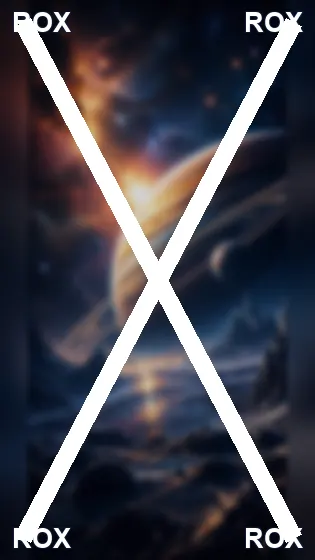
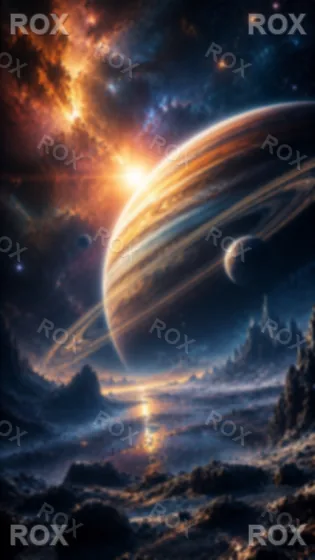
fix: refine ROX protected preview system

diff --git a/collections.html b/collections.html
@@ -81,12 +81,9 @@
     .preview-grid { display:grid; grid-template-columns:repeat(5,minmax(0,1fr)); gap:clamp(.65rem,1.5vw,1rem); list-style:none; padding:0; margin:0; }
     .preview { position:relative; aspect-ratio:4 / 5; overflow:hidden; border:1px solid rgba(49,101,177,.2); border-radius:18px; background:#dce8f8; box-shadow:0 10px 20px rgba(19,53,104,.1), inset 0 1px 0 #fff; transition:transform .3s var(--ease),box-shadow .3s; }
     .preview:hover { transform:translateY(-4px); box-shadow:0 17px 28px rgba(19,53,104,.16),inset 0 1px 0 #fff; }
-    .preview img { width:100%; height:100%; object-fit:cover; filter:blur(8px) saturate(.93); transform:scale(1.08); transition:none; }
-    .preview::after { content:""; position:absolute; inset:0; background:linear-gradient(145deg,rgba(255,255,255,.19),transparent 42%,rgba(4,27,68,.12)); pointer-events:none; }
-    .preview-x::before,.preview-x::after { content:""; position:absolute; z-index:2; top:50%; left:50%; width:62%; height:3px; border-radius:4px; background:rgba(255,255,255,.94); box-shadow:0 1px 6px rgba(4,24,64,.34); transform:translate(-50%,-50%) rotate(45deg); }
-    .preview-x::after { transform:translate(-50%,-50%) rotate(-45deg); }
-    .watermark { position:absolute; z-index:3; color:rgba(255,255,255,.97); font-size:clamp(.55rem,1vw,.7rem); line-height:1; font-weight:900; letter-spacing:.13em; text-shadow:0 1px 5px rgba(3,23,57,.48); }
-    .wm-tl{top:8px;left:8px}.wm-tr{top:8px;right:7px}.wm-bl{bottom:8px;left:8px}.wm-br{bottom:8px;right:7px}
+    .preview img { width:100%; height:100%; object-fit:cover; transform:scale(1.025); transition:transform .3s var(--ease); }
+    .preview:hover img { transform:scale(1.06); }
+    .preview::after { content:""; position:absolute; inset:0; background:linear-gradient(145deg,rgba(255,255,255,.08),transparent 42%,rgba(4,27,68,.07)); pointer-events:none; }
     .upcoming-grid { display:grid; grid-template-columns:repeat(5,minmax(0,1fr)); gap:1rem; }
     .future-card { min-height:286px; padding:1.15rem; border-radius:22px; display:flex; flex-direction:column; transition:transform .3s var(--ease),box-shadow .3s; }
     .future-card:hover { transform:translateY(-5px); box-shadow:var(--shadow-hover),inset 0 1px 0 #fff; }
@@ -209,13 +206,6 @@
       user-drag: none;
       pointer-events: none;
     }
-    .protected-preview-gallery .protect-x,
-    .protected-preview-gallery .preview-watermark,
-    .protected-preview-gallery .watermark,
-    .protected-preview-gallery .preview-x {
-      pointer-events: none;
-    }
-
   </style>
 </head>
 <body>
@@ -262,16 +252,16 @@
     <section class="section preview-section" aria-labelledby="preview-title">
       <div class="preview-intro reveal"><h2 id="preview-title">Protected previews.</h2><p>Every image is previewed with ROX protection. Your purchased collection includes the complete premium wallpapers.</p></div>
       <ul class="preview-grid protected-preview-gallery" aria-label="Protected Glass City wallpaper previews">
-        <li class="preview reveal"><img src="protected-previews/glass-city-preview-01.jpg" draggable="false" alt="Protected Glass City wallpaper preview one" loading="lazy" decoding="async"><span class="watermark wm-tl">ROX</span><span class="watermark wm-tr">ROX</span><span class="watermark wm-bl">ROX</span><span class="watermark wm-br">ROX</span><span class="preview-x" aria-hidden="true"></span></li>
-<li class="preview reveal"><img src="protected-previews/glass-city-preview-02.jpg" draggable="false" alt="Protected Glass City wallpaper preview two" loading="lazy" decoding="async"><span class="watermark wm-tl">ROX</span><span class="watermark wm-tr">ROX</span><span class="watermark wm-bl">ROX</span><span class="watermark wm-br">ROX</span><span class="preview-x" aria-hidden="true"></span></li>
-<li class="preview reveal"><img src="protected-previews/glass-city-preview-03.jpg" draggable="false" alt="Protected Glass City wallpaper preview three" loading="lazy" decoding="async"><span class="watermark wm-tl">ROX</span><span class="watermark wm-tr">ROX</span><span class="watermark wm-bl">ROX</span><span class="watermark wm-br">ROX</span><span class="preview-x" aria-hidden="true"></span></li>
-<li class="preview reveal"><img src="protected-previews/glass-city-preview-04.jpg" draggable="false" alt="Protected Glass City wallpaper preview four" loading="lazy" decoding="async"><span class="watermark wm-tl">ROX</span><span class="watermark wm-tr">ROX</span><span class="watermark wm-bl">ROX</span><span class="watermark wm-br">ROX</span><span class="preview-x" aria-hidden="true"></span></li>
-<li class="preview reveal"><img src="protected-previews/glass-city-preview-05.jpg" draggable="false" alt="Protected Glass City wallpaper preview five" loading="lazy" decoding="async"><span class="watermark wm-tl">ROX</span><span class="watermark wm-tr">ROX</span><span class="watermark wm-bl">ROX</span><span class="watermark wm-br">ROX</span><span class="preview-x" aria-hidden="true"></span></li>
-<li class="preview reveal"><img src="protected-previews/glass-city-preview-06.jpg" draggable="false" alt="Protected Glass City wallpaper preview six" loading="lazy" decoding="async"><span class="watermark wm-tl">ROX</span><span class="watermark wm-tr">ROX</span><span class="watermark wm-bl">ROX</span><span class="watermark wm-br">ROX</span><span class="preview-x" aria-hidden="true"></span></li>
-<li class="preview reveal"><img src="protected-previews/glass-city-preview-07.jpg" draggable="false" alt="Protected Glass City wallpaper preview seven" loading="lazy" decoding="async"><span class="watermark wm-tl">ROX</span><span class="watermark wm-tr">ROX</span><span class="watermark wm-bl">ROX</span><span class="watermark wm-br">ROX</span><span class="preview-x" aria-hidden="true"></span></li>
-<li class="preview reveal"><img src="protected-previews/glass-city-preview-08.jpg" draggable="false" alt="Protected Glass City wallpaper preview eight" loading="lazy" decoding="async"><span class="watermark wm-tl">ROX</span><span class="watermark wm-tr">ROX</span><span class="watermark wm-bl">ROX</span><span class="watermark wm-br">ROX</span><span class="preview-x" aria-hidden="true"></span></li>
-<li class="preview reveal"><img src="protected-previews/glass-city-preview-09.jpg" draggable="false" alt="Protected Glass City wallpaper preview nine" loading="lazy" decoding="async"><span class="watermark wm-tl">ROX</span><span class="watermark wm-tr">ROX</span><span class="watermark wm-bl">ROX</span><span class="watermark wm-br">ROX</span><span class="preview-x" aria-hidden="true"></span></li>
-<li class="preview reveal"><img src="protected-previews/glass-city-preview-10.jpg" draggable="false" alt="Protected Glass City wallpaper preview ten" loading="lazy" decoding="async"><span class="watermark wm-tl">ROX</span><span class="watermark wm-tr">ROX</span><span class="watermark wm-bl">ROX</span><span class="watermark wm-br">ROX</span><span class="preview-x" aria-hidden="true"></span></li>
+        <li class="preview reveal"><img src="protected-previews/glass-city-preview-01.webp" draggable="false" alt="Protected Glass City wallpaper preview one" loading="lazy" decoding="async"></li>
+<li class="preview reveal"><img src="protected-previews/glass-city-preview-02.webp" draggable="false" alt="Protected Glass City wallpaper preview two" loading="lazy" decoding="async"></li>
+<li class="preview reveal"><img src="protected-previews/glass-city-preview-03.webp" draggable="false" alt="Protected Glass City wallpaper preview three" loading="lazy" decoding="async"></li>
+<li class="preview reveal"><img src="protected-previews/glass-city-preview-04.webp" draggable="false" alt="Protected Glass City wallpaper preview four" loading="lazy" decoding="async"></li>
+<li class="preview reveal"><img src="protected-previews/glass-city-preview-05.webp" draggable="false" alt="Protected Glass City wallpaper preview five" loading="lazy" decoding="async"></li>
+<li class="preview reveal"><img src="protected-previews/glass-city-preview-06.webp" draggable="false" alt="Protected Glass City wallpaper preview six" loading="lazy" decoding="async"></li>
+<li class="preview reveal"><img src="protected-previews/glass-city-preview-07.webp" draggable="false" alt="Protected Glass City wallpaper preview seven" loading="lazy" decoding="async"></li>
+<li class="preview reveal"><img src="protected-previews/glass-city-preview-08.webp" draggable="false" alt="Protected Glass City wallpaper preview eight" loading="lazy" decoding="async"></li>
+<li class="preview reveal"><img src="protected-previews/glass-city-preview-09.webp" draggable="false" alt="Protected Glass City wallpaper preview nine" loading="lazy" decoding="async"></li>
+<li class="preview reveal"><img src="protected-previews/glass-city-preview-10.webp" draggable="false" alt="Protected Glass City wallpaper preview ten" loading="lazy" decoding="async"></li>
       </ul>
     </section>
     <section id="luminar" class="section" aria-labelledby="luminar-title">
@@ -285,16 +275,16 @@
       </article>
       <div class="preview-intro reveal"><h2 id="luminar-previews-title">Luminar protected previews.</h2><p>Every Luminar image is protected before it reaches the browser. The purchased collection includes the complete premium wallpapers.</p></div>
       <ul class="preview-grid protected-preview-gallery luminar-preview-grid" aria-label="Protected Luminar wallpaper previews">
-        <li class="preview reveal"><img src="assets/images/luminar/previews/rox-luminar-preview-01.webp" draggable="false" alt="Protected Luminar wallpaper preview one" loading="lazy" decoding="async"><span class="watermark wm-tl">ROX</span><span class="watermark wm-tr">ROX</span><span class="watermark wm-bl">ROX</span><span class="watermark wm-br">ROX</span><span class="preview-x" aria-hidden="true"></span></li>
-        <li class="preview reveal"><img src="assets/images/luminar/previews/rox-luminar-preview-02.webp" draggable="false" alt="Protected Luminar wallpaper preview two" loading="lazy" decoding="async"><span class="watermark wm-tl">ROX</span><span class="watermark wm-tr">ROX</span><span class="watermark wm-bl">ROX</span><span class="watermark wm-br">ROX</span><span class="preview-x" aria-hidden="true"></span></li>
-        <li class="preview reveal"><img src="assets/images/luminar/previews/rox-luminar-preview-03.webp" draggable="false" alt="Protected Luminar wallpaper preview three" loading="lazy" decoding="async"><span class="watermark wm-tl">ROX</span><span class="watermark wm-tr">ROX</span><span class="watermark wm-bl">ROX</span><span class="watermark wm-br">ROX</span><span class="preview-x" aria-hidden="true"></span></li>
-        <li class="preview reveal"><img src="assets/images/luminar/previews/rox-luminar-preview-04.webp" draggable="false" alt="Protected Luminar wallpaper preview four" loading="lazy" decoding="async"><span class="watermark wm-tl">ROX</span><span class="watermark wm-tr">ROX</span><span class="watermark wm-bl">ROX</span><span class="watermark wm-br">ROX</span><span class="preview-x" aria-hidden="true"></span></li>
-        <li class="preview reveal"><img src="assets/images/luminar/previews/rox-luminar-preview-05.webp" draggable="false" alt="Protected Luminar wallpaper preview five" loading="lazy" decoding="async"><span class="watermark wm-tl">ROX</span><span class="watermark wm-tr">ROX</span><span class="watermark wm-bl">ROX</span><span class="watermark wm-br">ROX</span><span class="preview-x" aria-hidden="true"></span></li>
-        <li class="preview reveal"><img src="assets/images/luminar/previews/rox-luminar-preview-06.webp" draggable="false" alt="Protected Luminar wallpaper preview six" loading="lazy" decoding="async"><span class="watermark wm-tl">ROX</span><span class="watermark wm-tr">ROX</span><span class="watermark wm-bl">ROX</span><span class="watermark wm-br">ROX</span><span class="preview-x" aria-hidden="true"></span></li>
-        <li class="preview reveal"><img src="assets/images/luminar/previews/rox-luminar-preview-07.webp" draggable="false" alt="Protected Luminar wallpaper preview seven" loading="lazy" decoding="async"><span class="watermark wm-tl">ROX</span><span class="watermark wm-tr">ROX</span><span class="watermark wm-bl">ROX</span><span class="watermark wm-br">ROX</span><span class="preview-x" aria-hidden="true"></span></li>
-        <li class="preview reveal"><img src="assets/images/luminar/previews/rox-luminar-preview-08.webp" draggable="false" alt="Protected Luminar wallpaper preview eight" loading="lazy" decoding="async"><span class="watermark wm-tl">ROX</span><span class="watermark wm-tr">ROX</span><span class="watermark wm-bl">ROX</span><span class="watermark wm-br">ROX</span><span class="preview-x" aria-hidden="true"></span></li>
-        <li class="preview reveal"><img src="assets/images/luminar/previews/rox-luminar-preview-09.webp" draggable="false" alt="Protected Luminar wallpaper preview nine" loading="lazy" decoding="async"><span class="watermark wm-tl">ROX</span><span class="watermark wm-tr">ROX</span><span class="watermark wm-bl">ROX</span><span class="watermark wm-br">ROX</span><span class="preview-x" aria-hidden="true"></span></li>
-        <li class="preview reveal"><img src="assets/images/luminar/previews/rox-luminar-preview-10.webp" draggable="false" alt="Protected Luminar wallpaper preview ten" loading="lazy" decoding="async"><span class="watermark wm-tl">ROX</span><span class="watermark wm-tr">ROX</span><span class="watermark wm-bl">ROX</span><span class="watermark wm-br">ROX</span><span class="preview-x" aria-hidden="true"></span></li>
+        <li class="preview reveal"><img src="assets/images/luminar/previews/rox-luminar-preview-01.webp" draggable="false" alt="Protected Luminar wallpaper preview one" loading="lazy" decoding="async"></li>
+        <li class="preview reveal"><img src="assets/images/luminar/previews/rox-luminar-preview-02.webp" draggable="false" alt="Protected Luminar wallpaper preview two" loading="lazy" decoding="async"></li>
+        <li class="preview reveal"><img src="assets/images/luminar/previews/rox-luminar-preview-03.webp" draggable="false" alt="Protected Luminar wallpaper preview three" loading="lazy" decoding="async"></li>
+        <li class="preview reveal"><img src="assets/images/luminar/previews/rox-luminar-preview-04.webp" draggable="false" alt="Protected Luminar wallpaper preview four" loading="lazy" decoding="async"></li>
+        <li class="preview reveal"><img src="assets/images/luminar/previews/rox-luminar-preview-05.webp" draggable="false" alt="Protected Luminar wallpaper preview five" loading="lazy" decoding="async"></li>
+        <li class="preview reveal"><img src="assets/images/luminar/previews/rox-luminar-preview-06.webp" draggable="false" alt="Protected Luminar wallpaper preview six" loading="lazy" decoding="async"></li>
+        <li class="preview reveal"><img src="assets/images/luminar/previews/rox-luminar-preview-07.webp" draggable="false" alt="Protected Luminar wallpaper preview seven" loading="lazy" decoding="async"></li>
+        <li class="preview reveal"><img src="assets/images/luminar/previews/rox-luminar-preview-08.webp" draggable="false" alt="Protected Luminar wallpaper preview eight" loading="lazy" decoding="async"></li>
+        <li class="preview reveal"><img src="assets/images/luminar/previews/rox-luminar-preview-09.webp" draggable="false" alt="Protected Luminar wallpaper preview nine" loading="lazy" decoding="async"></li>
+        <li class="preview reveal"><img src="assets/images/luminar/previews/rox-luminar-preview-10.webp" draggable="false" alt="Protected Luminar wallpaper preview ten" loading="lazy" decoding="async"></li>
       </ul>
       <article class="luminar-details glass reveal" aria-label="Luminar collection details and purchase">
         <div class="featured-copy">

diff --git a/index.html b/index.html
@@ -546,9 +546,8 @@
       width: 100%;
       height: 100%;
       object-fit: cover;
-      filter: blur(1.5px) saturate(.82) brightness(.8);
-      transform: scale(1.045);
-      transition: filter .42s ease, transform .62s cubic-bezier(.2,.8,.2,1);
+      transform: scale(1.025);
+      transition: transform .62s cubic-bezier(.2,.8,.2,1);
     }
 
     .preview::before {
@@ -556,8 +555,7 @@
       z-index: 1;
       inset: 0;
       content: "";
-      background: linear-gradient(135deg, rgba(7,28,65,.07), rgba(7,28,65,.34));
-      backdrop-filter: blur(1px);
+      background: linear-gradient(135deg, rgba(7,28,65,.015), rgba(7,28,65,.12));
       transition: background .34s ease;
     }
 
@@ -569,11 +567,10 @@
     }
 
     .preview:hover img {
-      filter: blur(.5px) saturate(1) brightness(.92);
-      transform: scale(1.09);
+      transform: scale(1.06);
     }
 
-    .preview:hover::before { background: linear-gradient(135deg, rgba(8,35,78,.02), rgba(8,35,78,.18)); }
+    .preview:hover::before { background: linear-gradient(135deg, rgba(8,35,78,.01), rgba(8,35,78,.07)); }
 
     .preview-name {
       position: absolute;
@@ -586,50 +583,6 @@
       letter-spacing: .09em;
       text-shadow: 0 1px 7px rgba(0,0,0,.35);
       text-transform: uppercase;
-    }
-
-    .protect-x {
-      position: absolute;
-      z-index: 2;
-      top: 50%;
-      left: 50%;
-      width: 42px;
-      height: 42px;
-      opacity: .78;
-      transform: translate(-50%, -50%);
-      transition: opacity .35s ease, transform .35s ease;
-    }
-
-    .protect-x::before,
-    .protect-x::after {
-      position: absolute;
-      top: 20px;
-      left: 2px;
-      width: 38px;
-      height: 1px;
-      content: "";
-      background: rgba(255,255,255,.94);
-      box-shadow: 0 0 8px rgba(255,255,255,.52);
-    }
-
-    .protect-x::before { transform: rotate(45deg); }
-    .protect-x::after { transform: rotate(-45deg); }
-
-    .preview:hover .protect-x {
-      opacity: .98;
-      transform: translate(-50%, -50%) rotate(90deg);
-    }
-
-    .preview-watermark {
-      position: absolute;
-      z-index: 2;
-      right: 10px;
-      bottom: 9px;
-      color: rgba(255,255,255,.88);
-      font-size: .65rem;
-      font-weight: 820;
-      letter-spacing: .18em;
-      text-shadow: 0 1px 8px rgba(0,0,0,.42);
     }
 
     .purchase-area { margin-top: 27px; }
@@ -1085,13 +1038,6 @@
       user-drag: none;
       pointer-events: none;
     }
-    .protected-preview-gallery .protect-x,
-    .protected-preview-gallery .preview-watermark,
-    .protected-preview-gallery .watermark,
-    .protected-preview-gallery .preview-x {
-      pointer-events: none;
-    }
-
   </style>
 </head>
 <body>
@@ -1151,16 +1097,16 @@
             </div>
 
             <div class="gallery protected-preview-gallery" aria-label="Glass City protected wallpaper previews">
-              <figure class="preview"><img src="protected-previews/glass-city-preview-01.jpg" draggable="false" alt="Protected Glass City wallpaper preview one" loading="lazy" decoding="async"><span class="preview-name">Preview 01</span><span class="protect-x" aria-hidden="true"></span><span class="preview-watermark" aria-hidden="true">ROX</span></figure>
-              <figure class="preview"><img src="protected-previews/glass-city-preview-02.jpg" draggable="false" alt="Protected Glass City wallpaper preview two" loading="lazy" decoding="async"><span class="preview-name">Preview 02</span><span class="protect-x" aria-hidden="true"></span><span class="preview-watermark" aria-hidden="true">ROX</span></figure>
-              <figure class="preview"><img src="protected-previews/glass-city-preview-03.jpg" draggable="false" alt="Protected Glass City wallpaper preview three" loading="lazy" decoding="async"><span class="preview-name">Preview 03</span><span class="protect-x" aria-hidden="true"></span><span class="preview-watermark" aria-hidden="true">ROX</span></figure>
-              <figure class="preview"><img src="protected-previews/glass-city-preview-04.jpg" draggable="false" alt="Protected Glass City wallpaper preview four" loading="lazy" decoding="async"><span class="preview-name">Preview 04</span><span class="protect-x" aria-hidden="true"></span><span class="preview-watermark" aria-hidden="true">ROX</span></figure>
-              <figure class="preview"><img src="protected-previews/glass-city-preview-05.jpg" draggable="false" alt="Protected Glass City wallpaper preview five" loading="lazy" decoding="async"><span class="preview-name">Preview 05</span><span class="protect-x" aria-hidden="true"></span><span class="preview-watermark" aria-hidden="true">ROX</span></figure>
-              <figure class="preview"><img src="protected-previews/glass-city-preview-06.jpg" draggable="false" alt="Protected Glass City wallpaper preview six" loading="lazy" decoding="async"><span class="preview-name">Preview 06</span><span class="protect-x" aria-hidden="true"></span><span class="preview-watermark" aria-hidden="true">ROX</span></figure>
-              <figure class="preview"><img src="protected-previews/glass-city-preview-07.jpg" draggable="false" alt="Protected Glass City wallpaper preview seven" loading="lazy" decoding="async"><span class="preview-name">Preview 07</span><span class="protect-x" aria-hidden="true"></span><span class="preview-watermark" aria-hidden="true">ROX</span></figure>
-              <figure class="preview"><img src="protected-previews/glass-city-preview-08.jpg" draggable="false" alt="Protected Glass City wallpaper preview eight" loading="lazy" decoding="async"><span class="preview-name">Preview 08</span><span class="protect-x" aria-hidden="true"></span><span class="preview-watermark" aria-hidden="true">ROX</span></figure>
-              <figure class="preview"><img src="protected-previews/glass-city-preview-09.jpg" draggable="false" alt="Protected Glass City wallpaper preview nine" loading="lazy" decoding="async"><span class="preview-name">Preview 09</span><span class="protect-x" aria-hidden="true"></span><span class="preview-watermark" aria-hidden="true">ROX</span></figure>
-              <figure class="preview"><img src="protected-previews/glass-city-preview-10.jpg" draggable="false" alt="Protected Glass City wallpaper preview ten" loading="lazy" decoding="async"><span class="preview-name">Preview 10</span><span class="protect-x" aria-hidden="true"></span><span class="preview-watermark" aria-hidden="true">ROX</span></figure>
+              <figure class="preview"><img src="protected-previews/glass-city-preview-01.webp" draggable="false" alt="Protected Glass City wallpaper preview one" loading="lazy" decoding="async"><span class="preview-name">Preview 01</span></figure>
+              <figure class="preview"><img src="protected-previews/glass-city-preview-02.webp" draggable="false" alt="Protected Glass City wallpaper preview two" loading="lazy" decoding="async"><span class="preview-name">Preview 02</span></figure>
+              <figure class="preview"><img src="protected-previews/glass-city-preview-03.webp" draggable="false" alt="Protected Glass City wallpaper preview three" loading="lazy" decoding="async"><span class="preview-name">Preview 03</span></figure>
+              <figure class="preview"><img src="protected-previews/glass-city-preview-04.webp" draggable="false" alt="Protected Glass City wallpaper preview four" loading="lazy" decoding="async"><span class="preview-name">Preview 04</span></figure>
+              <figure class="preview"><img src="protected-previews/glass-city-preview-05.webp" draggable="false" alt="Protected Glass City wallpaper preview five" loading="lazy" decoding="async"><span class="preview-name">Preview 05</span></figure>
+              <figure class="preview"><img src="protected-previews/glass-city-preview-06.webp" draggable="false" alt="Protected Glass City wallpaper preview six" loading="lazy" decoding="async"><span class="preview-name">Preview 06</span></figure>
+              <figure class="preview"><img src="protected-previews/glass-city-preview-07.webp" draggable="false" alt="Protected Glass City wallpaper preview seven" loading="lazy" decoding="async"><span class="preview-name">Preview 07</span></figure>
+              <figure class="preview"><img src="protected-previews/glass-city-preview-08.webp" draggable="false" alt="Protected Glass City wallpaper preview eight" loading="lazy" decoding="async"><span class="preview-name">Preview 08</span></figure>
+              <figure class="preview"><img src="protected-previews/glass-city-preview-09.webp" draggable="false" alt="Protected Glass City wallpaper preview nine" loading="lazy" decoding="async"><span class="preview-name">Preview 09</span></figure>
+              <figure class="preview"><img src="protected-previews/glass-city-preview-10.webp" draggable="false" alt="Protected Glass City wallpaper preview ten" loading="lazy" decoding="async"><span class="preview-name">Preview 10</span></figure>
             </div>
 
             <div class="purchase-area">
@@ -1203,16 +1149,16 @@
             <p class="made-for">Made for Everyday Screens</p>
 
             <div class="gallery protected-preview-gallery" aria-label="Luminar protected wallpaper previews">
-              <figure class="preview"><img src="assets/images/luminar/previews/rox-luminar-preview-01.webp" draggable="false" alt="Protected Luminar wallpaper preview one" loading="lazy" decoding="async"><span class="preview-name">Preview 01</span><span class="protect-x" aria-hidden="true"></span><span class="preview-watermark" aria-hidden="true">ROX</span></figure>
-              <figure class="preview"><img src="assets/images/luminar/previews/rox-luminar-preview-02.webp" draggable="false" alt="Protected Luminar wallpaper preview two" loading="lazy" decoding="async"><span class="preview-name">Preview 02</span><span class="protect-x" aria-hidden="true"></span><span class="preview-watermark" aria-hidden="true">ROX</span></figure>
-              <figure class="preview"><img src="assets/images/luminar/previews/rox-luminar-preview-03.webp" draggable="false" alt="Protected Luminar wallpaper preview three" loading="lazy" decoding="async"><span class="preview-name">Preview 03</span><span class="protect-x" aria-hidden="true"></span><span class="preview-watermark" aria-hidden="true">ROX</span></figure>
-              <figure class="preview"><img src="assets/images/luminar/previews/rox-luminar-preview-04.webp" draggable="false" alt="Protected Luminar wallpaper preview four" loading="lazy" decoding="async"><span class="preview-name">Preview 04</span><span class="protect-x" aria-hidden="true"></span><span class="preview-watermark" aria-hidden="true">ROX</span></figure>
-              <figure class="preview"><img src="assets/images/luminar/previews/rox-luminar-preview-05.webp" draggable="false" alt="Protected Luminar wallpaper preview five" loading="lazy" decoding="async"><span class="preview-name">Preview 05</span><span class="protect-x" aria-hidden="true"></span><span class="preview-watermark" aria-hidden="true">ROX</span></figure>
-              <figure class="preview"><img src="assets/images/luminar/previews/rox-luminar-preview-06.webp" draggable="false" alt="Protected Luminar wallpaper preview six" loading="lazy" decoding="async"><span class="preview-name">Preview 06</span><span class="protect-x" aria-hidden="true"></span><span class="preview-watermark" aria-hidden="true">ROX</span></figure>
-              <figure class="preview"><img src="assets/images/luminar/previews/rox-luminar-preview-07.webp" draggable="false" alt="Protected Luminar wallpaper preview seven" loading="lazy" decoding="async"><span class="preview-name">Preview 07</span><span class="protect-x" aria-hidden="true"></span><span class="preview-watermark" aria-hidden="true">ROX</span></figure>
-              <figure class="preview"><img src="assets/images/luminar/previews/rox-luminar-preview-08.webp" draggable="false" alt="Protected Luminar wallpaper preview eight" loading="lazy" decoding="async"><span class="preview-name">Preview 08</span><span class="protect-x" aria-hidden="true"></span><span class="preview-watermark" aria-hidden="true">ROX</span></figure>
-              <figure class="preview"><img src="assets/images/luminar/previews/rox-luminar-preview-09.webp" draggable="false" alt="Protected Luminar wallpaper preview nine" loading="lazy" decoding="async"><span class="preview-name">Preview 09</span><span class="protect-x" aria-hidden="true"></span><span class="preview-watermark" aria-hidden="true">ROX</span></figure>
-              <figure class="preview"><img src="assets/images/luminar/previews/rox-luminar-preview-10.webp" draggable="false" alt="Protected Luminar wallpaper preview ten" loading="lazy" decoding="async"><span class="preview-name">Preview 10</span><span class="protect-x" aria-hidden="true"></span><span class="preview-watermark" aria-hidden="true">ROX</span></figure>
+              <figure class="preview"><img src="assets/images/luminar/previews/rox-luminar-preview-01.webp" draggable="false" alt="Protected Luminar wallpaper preview one" loading="lazy" decoding="async"><span class="preview-name">Preview 01</span></figure>
+              <figure class="preview"><img src="assets/images/luminar/previews/rox-luminar-preview-02.webp" draggable="false" alt="Protected Luminar wallpaper preview two" loading="lazy" decoding="async"><span class="preview-name">Preview 02</span></figure>
+              <figure class="preview"><img src="assets/images/luminar/previews/rox-luminar-preview-03.webp" draggable="false" alt="Protected Luminar wallpaper preview three" loading="lazy" decoding="async"><span class="preview-name">Preview 03</span></figure>
+              <figure class="preview"><img src="assets/images/luminar/previews/rox-luminar-preview-04.webp" draggable="false" alt="Protected Luminar wallpaper preview four" loading="lazy" decoding="async"><span class="preview-name">Preview 04</span></figure>
+              <figure class="preview"><img src="assets/images/luminar/previews/rox-luminar-preview-05.webp" draggable="false" alt="Protected Luminar wallpaper preview five" loading="lazy" decoding="async"><span class="preview-name">Preview 05</span></figure>
+              <figure class="preview"><img src="assets/images/luminar/previews/rox-luminar-preview-06.webp" draggable="false" alt="Protected Luminar wallpaper preview six" loading="lazy" decoding="async"><span class="preview-name">Preview 06</span></figure>
+              <figure class="preview"><img src="assets/images/luminar/previews/rox-luminar-preview-07.webp" draggable="false" alt="Protected Luminar wallpaper preview seven" loading="lazy" decoding="async"><span class="preview-name">Preview 07</span></figure>
+              <figure class="preview"><img src="assets/images/luminar/previews/rox-luminar-preview-08.webp" draggable="false" alt="Protected Luminar wallpaper preview eight" loading="lazy" decoding="async"><span class="preview-name">Preview 08</span></figure>
+              <figure class="preview"><img src="assets/images/luminar/previews/rox-luminar-preview-09.webp" draggable="false" alt="Protected Luminar wallpaper preview nine" loading="lazy" decoding="async"><span class="preview-name">Preview 09</span></figure>
+              <figure class="preview"><img src="assets/images/luminar/previews/rox-luminar-preview-10.webp" draggable="false" alt="Protected Luminar wallpaper preview ten" loading="lazy" decoding="async"><span class="preview-name">Preview 10</span></figure>
             </div>
 
             <div class="badge-row" aria-label="Luminar product details">
